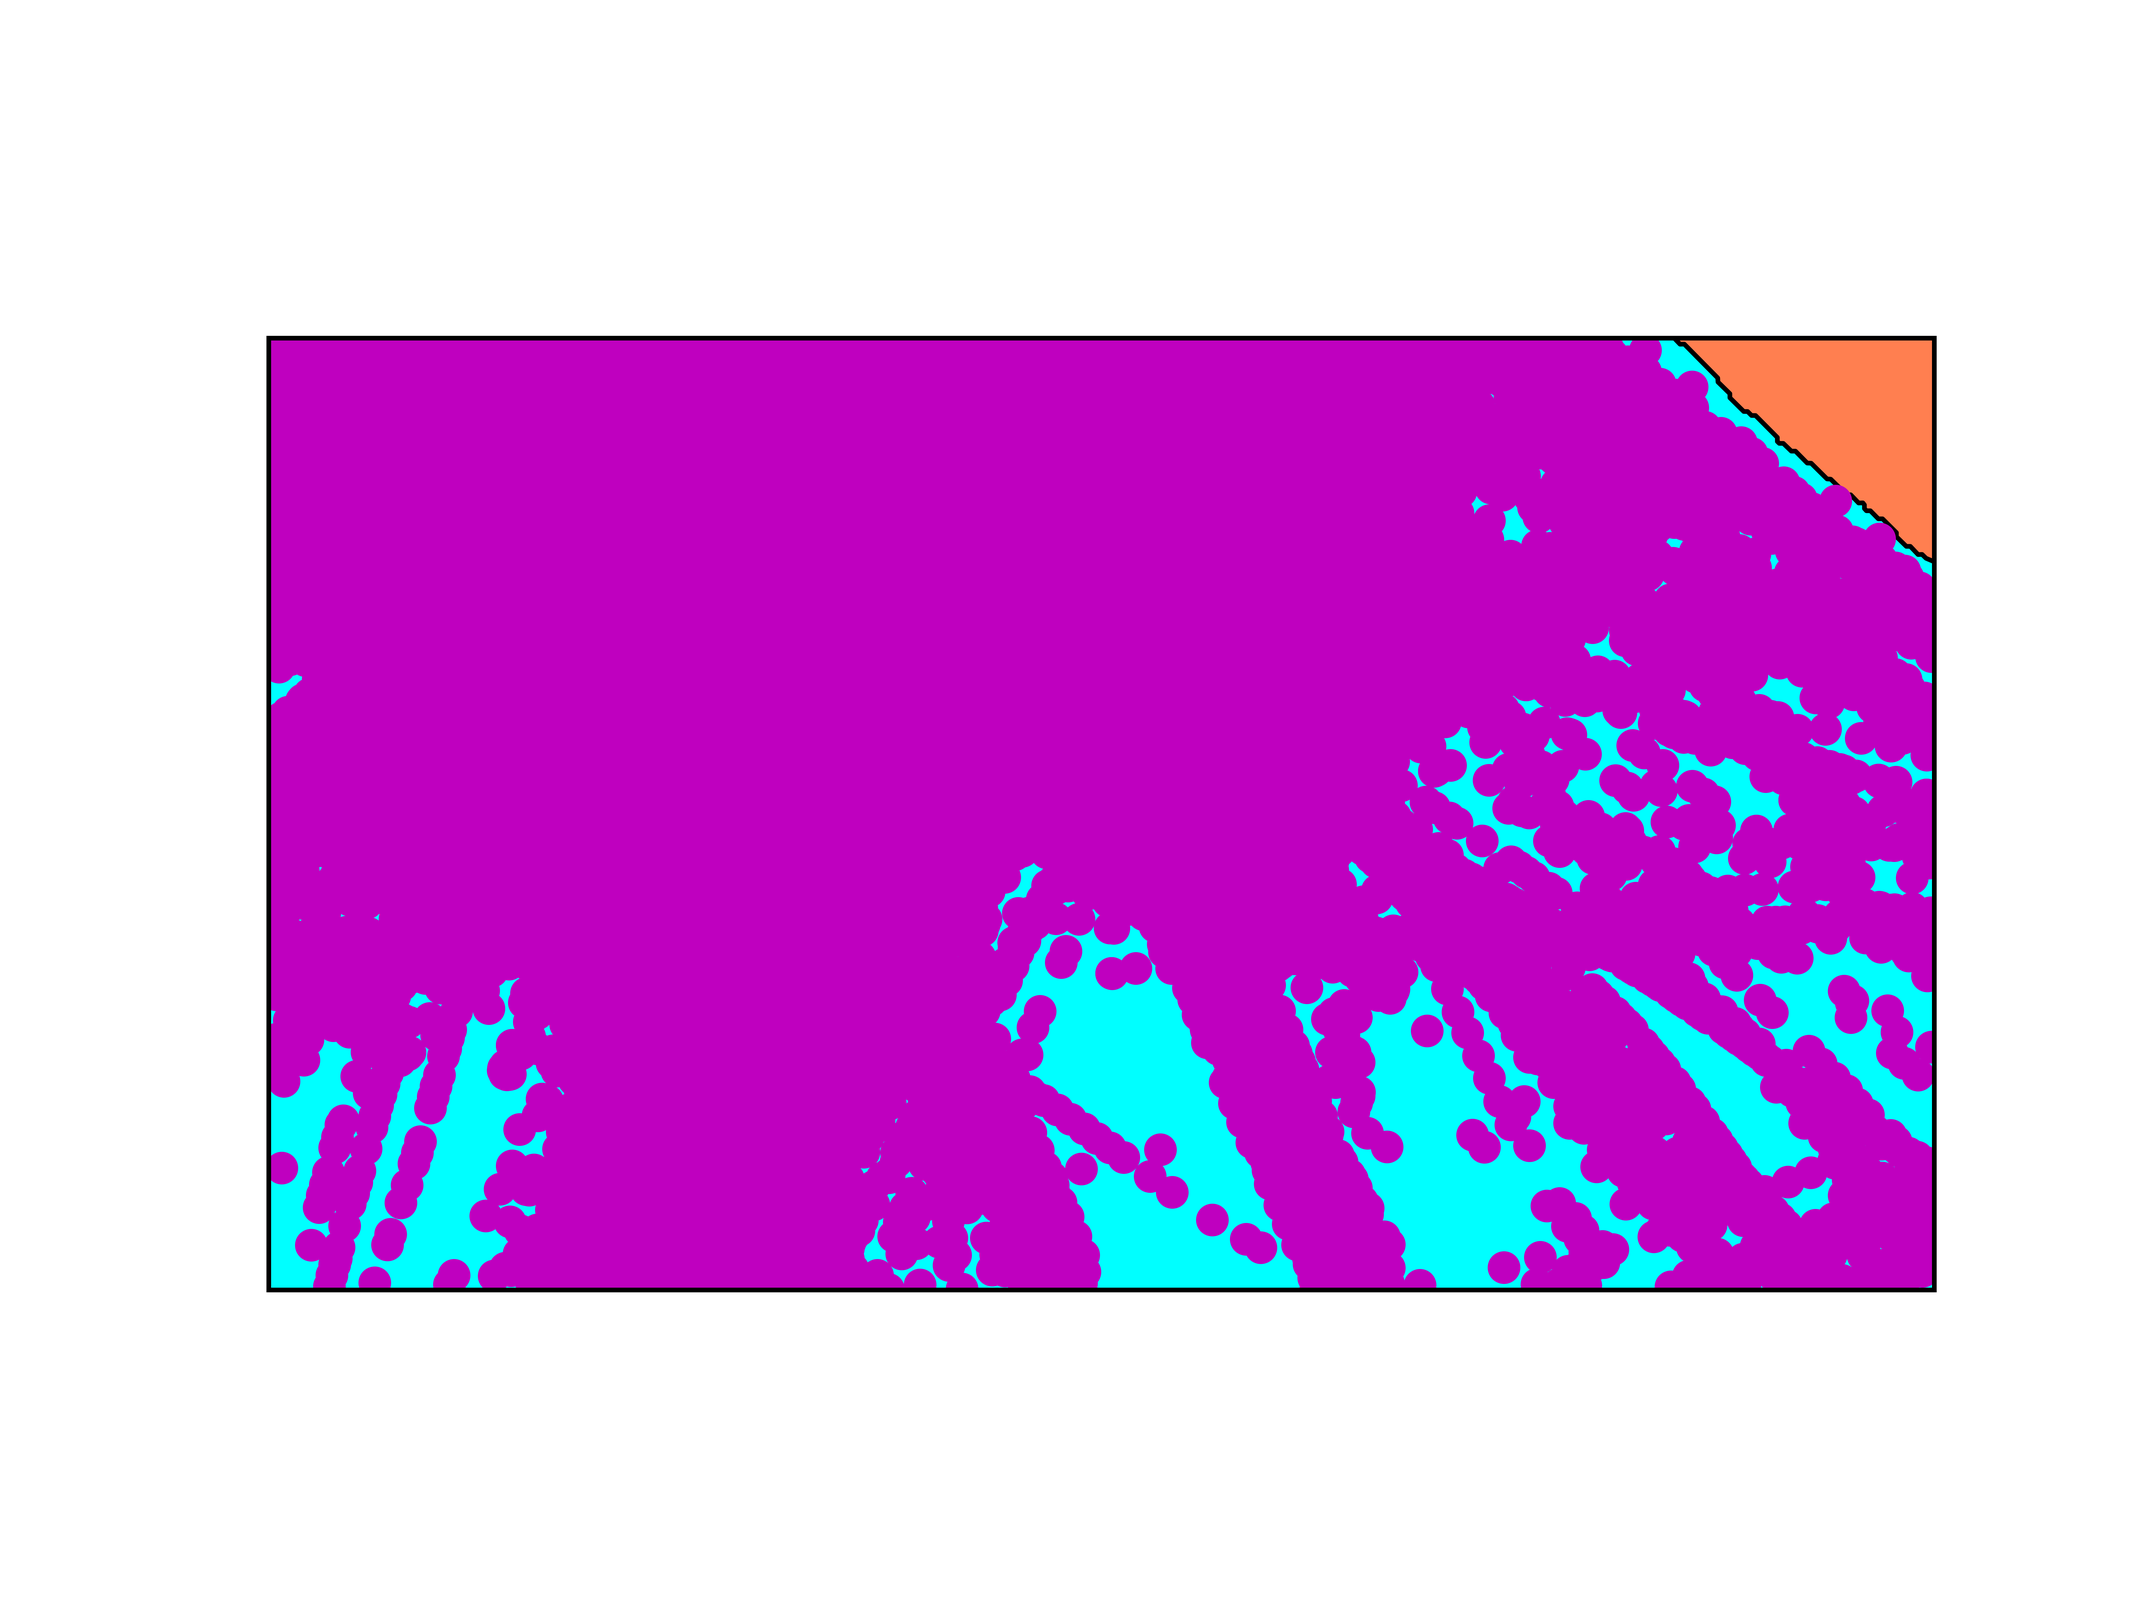
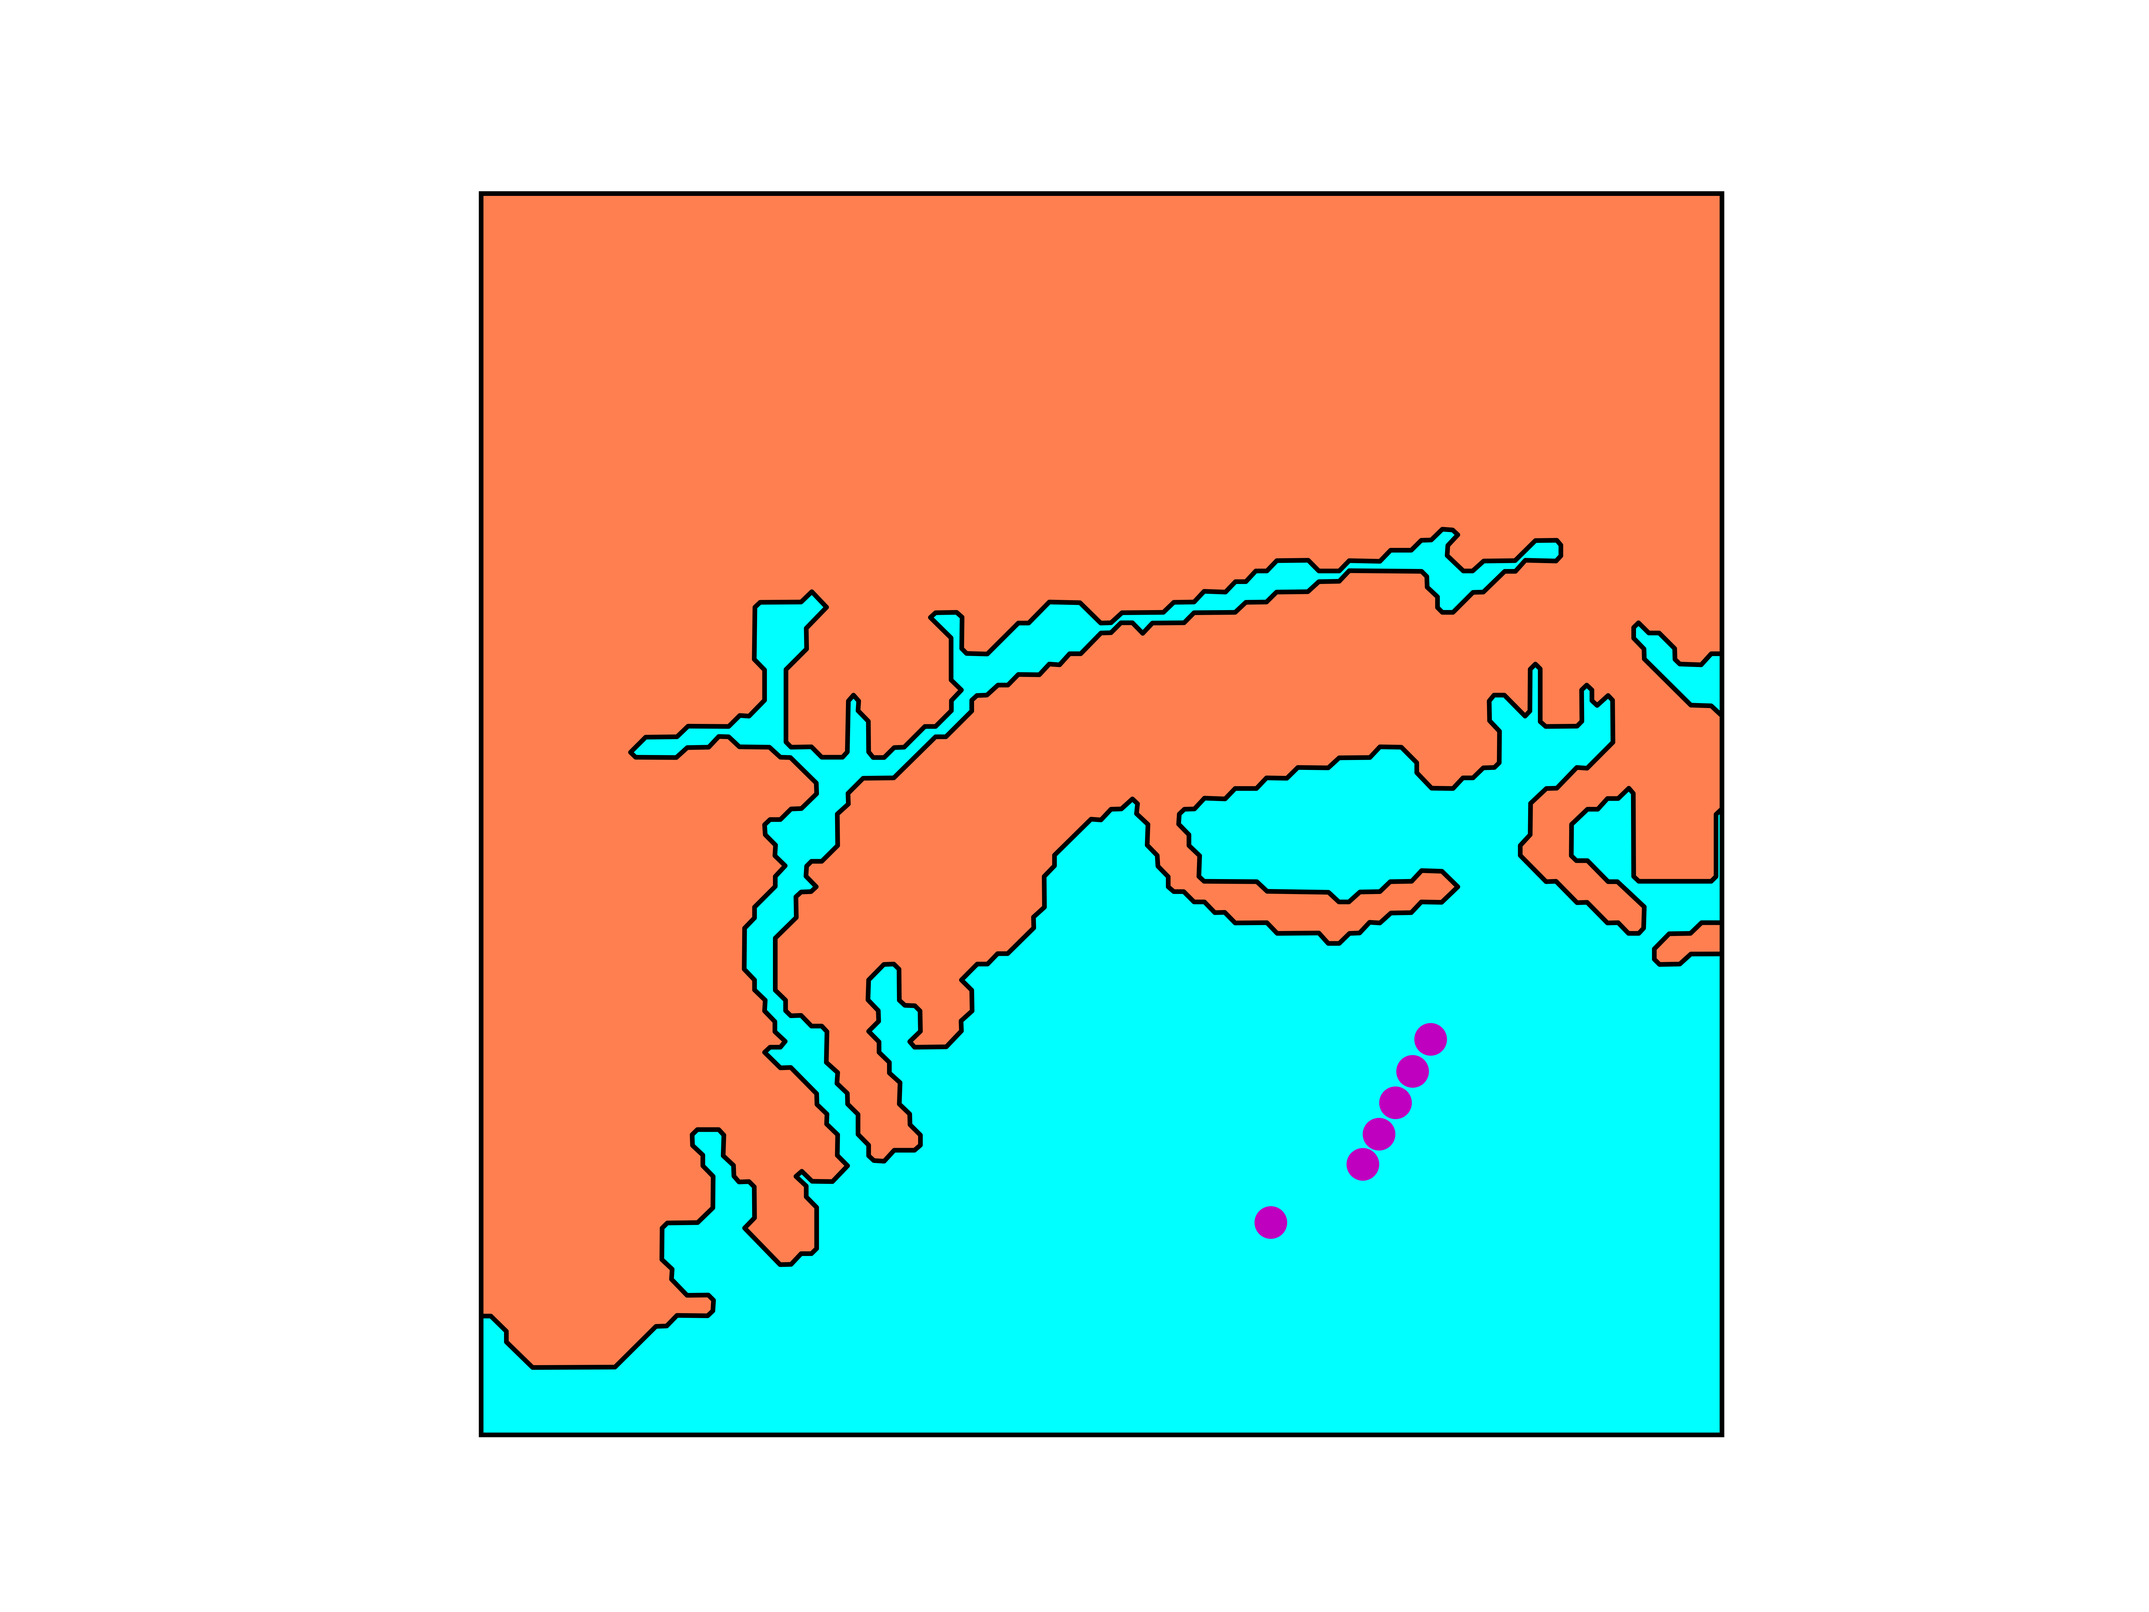
解决画图问题，选取研究区域（33.5N，33.7N）（-118.35W，-118W），目前导入AIS数据为2019-01-01~2019-01-21，每天的数据解压后excel表格大约700Mb

diff --git a/Autoencoder/code/RNN.py b/Autoencoder/code/RNN.py
@@ -1,0 +1,154 @@
+import copy
+import numpy
+import matplotlib.pyplot as plt
+import scaler
+from keras.models import Sequential
+from keras.layers import Dense
+from keras.layers import LSTM
+import  pandas as pd
+import  os
+from keras.models import Sequential, load_model
+from sklearn.preprocessing import MinMaxScaler
+import pymysql as pymysql
+
+
+pymysql.install_as_MySQLdb()
+import MySQLdb
+from math import radians, cos, sin, asin, sqrt
+import numpy
+import numpy as np
+from geopy.distance import geodesic
+import time, datetime
+import matplotlib.pyplot as plt
+from mpl_toolkits.basemap import Basemap
+from scipy.interpolate import interpolate
+import pandas as pd
+from sklearn.decomposition import PCA
+from sklearn.mixture import GaussianMixture
+from itertools import chain
+from sklearn.discriminant_analysis import LinearDiscriminantAnalysis
+from sklearn.neighbors import KNeighborsClassifier
+import math
+
+# 预测船舶主键ID
+ID = "1900"
+
+# 获取select_point
+def readData():
+    db = MySQLdb.connect("localhost", "root", "123456", "ais", charset='utf8')
+    # 使用cursor()方法获取操作游标
+    cursor = db.cursor()
+    # SQL 查询语句
+    sql = "SELECT * FROM ais_2018_01_02 WHERE  ID = '{0}' order by BaseDateTime ;".format(ID)
+    try:
+        # 执行SQL语句,获得预测真实航迹
+        cursor.execute(sql)
+        select_point = cursor.fetchall()
+    except:
+        print
+        "Error: unable to fecth data"
+    select_point = [select_point[0][1],select_point[0][2],select_point[0][3],select_point[0][4],select_point[0][5],select_point[0][6]]
+    return select_point
+
+# 插值，得到新的数据，时间间隔为30S
+def getTrajectory(select_point):
+    db = MySQLdb.connect("localhost", "root", "123456", "ais", charset='utf8')
+    # 使用cursor()方法获取操作游标
+    cursor = db.cursor()
+    # SQL 查询语句
+    sql = "SELECT MMSI,BaseDateTime,LAT,LON,SOG,COG FROM ais_2018_01_02 WHERE  MMSI = '{0}' order by BaseDateTime ;".format(select_point[0])
+    try:
+        # 执行SQL语句,获得预测真实航迹
+        cursor.execute(sql)
+        select_trajectory_row = cursor.fetchall()
+    except:
+        print
+        "Error: unable to fecth data"
+    select_trajectory = []
+
+    # 采用时间间隔为60S
+    date = [l[1] for l in select_trajectory_row]
+    # 将时间转换为时间戳
+    dateStamp = []
+    for k in range(len(date)):
+        dateStamp.append(int(date[k].timestamp()))
+    LAT = [k[2] for k in select_trajectory_row]
+    LON = [k[3] for k in select_trajectory_row]
+    SOG = [k[4] for k in select_trajectory_row]
+    COG = [k[5] for k in select_trajectory_row]
+    print("开始时间：",select_trajectory_row[0][1])
+    print("结束时间：",select_trajectory_row[len(select_trajectory_row)-1][1])
+    begin_time = int((select_trajectory_row[0][1]).timestamp())
+    end_time = int((select_trajectory_row[len(select_trajectory_row)-1][1]).timestamp())
+    X = pd.date_range(start=select_trajectory_row[0][1],end=select_trajectory_row[len(select_trajectory_row)-1][1],  freq='60S')
+    X = list(X)
+    XStamp = []
+    for h in range(len(X)):
+        XStamp.append(int(X[h].to_pydatetime().timestamp()))
+
+    # 插值
+    f_LAT = interpolate.interp1d(dateStamp,LAT,kind="linear")
+    f_LON = interpolate.interp1d(dateStamp,LON,kind="linear")
+    f_SOG = interpolate.interp1d(dateStamp,SOG,kind="linear")
+    f_COG = interpolate.interp1d(dateStamp,COG,kind="linear")
+    LATS = f_LAT(XStamp)
+    LONS = f_LON(XStamp)
+    SOGS = f_SOG(XStamp)
+    COGS = f_COG(XStamp)
+    for j in range(len(LATS)):
+        timeArray = time.localtime(XStamp[j])
+        otherStyleTime = time.strftime("%Y-%m-%d %H:%M:%S", timeArray)
+        select_trajectory.append([otherStyleTime,LATS[j],LONS[j],SOGS[j],COGS[j]])
+    return select_trajectory
+
+# RNN中的LSTM预测
+def RNN_LSTM(select_trajectory):
+    select_trajectory = select_trajectory[1:]
+    # 70%作为训练集，30%作为测试集
+    train_size = int(len(select_trajectory) * 0.7)
+    trainlist = select_trajectory[:train_size]
+    testlist = select_trajectory[train_size:]
+    look_back = 3
+    trainX, trainY = create_dataset(trainlist, look_back)
+    testX, testY = create_dataset(testlist, look_back)
+    trainX = numpy.reshape(trainX, (trainX.shape[0], trainX.shape[1], 4))
+    testX = numpy.reshape(testX, (testX.shape[0], testX.shape[1], 4))
+    #训练模型
+    model = Sequential()
+    model.add(LSTM(4, input_shape=(None, 1)))
+    model.add(Dense(1))
+    model.compile(loss='mean_squared_error', optimizer='adam')
+    model.fit(trainX, trainY, epochs=100, batch_size=1, verbose=2)
+    #做预测
+    trainPredict = model.predict(trainX)
+    testPredict = model.predict(testX)
+    # 反归一化
+    trainPredict = scaler.inverse_transform(trainPredict)
+    trainY = scaler.inverse_transform(trainY)
+    testPredict = scaler.inverse_transform(testPredict)
+    testY = scaler.inverse_transform(testY)
+    plt.plot(trainY, color='green')  # 绿色是真实数据
+    plt.plot(trainPredict[1:], color='red')  # 红色是预测数据
+    plt.title('train_set')
+    plt.show()
+    plt.savefig('训练.png')
+    plt.plot(testY, color='green')
+    plt.plot(testPredict[1:], color='red')
+    plt.title('test_set')
+    plt.savefig('测试.png')
+    plt.show()
+
+
+#这里的look_back与timestep相同，即利用前面多少步预测下一步
+def create_dataset(dataset, look_back):
+    dataX, dataY = [], []
+    for i in range(len(dataset) - look_back - 1):
+        a = dataset[i:(i + look_back)]
+        dataX.append(a)
+        dataY.append(dataset[i + look_back])
+    return numpy.array(dataX), numpy.array(dataY)
+
+
+select_point =  readData()
+select_trajectory = getTrajectory(select_point)
+RNN_LSTM(select_trajectory)

diff --git a/Autoencoder/code/__init__.py b/Autoencoder/code/__init__.py
@@ -1,5 +1,8 @@
 import copy
 
+import pymysql as pymysql
+
+pymysql.install_as_MySQLdb()
 import MySQLdb
 from math import radians, cos, sin, asin, sqrt
 
@@ -19,8 +22,8 @@ from sklearn.neighbors import KNeighborsClassifier
 import math
 
 # 预测船舶ID,预测点时间
-MMSI = "353288000"
-Basedatetime = "2018-01-08 20:45:33"
+MMSI = "367719640"
+Basedatetime = "2018-01-04 07:41:44"
 
 
 # 读取预测船舶的信息，返回真实航迹real_trajectory以及第一个点的信息first_point1
@@ -41,6 +44,10 @@ def readdata():
     except:
         print
         "Error: unable to fecth data"
+    if (first_point1[0][6] < -180):
+        first_point1[0][6] = 360 + first_point1[0][6]
+    if (first_point1[0][6] > 180):
+        first_point1[0][6] = first_point1[0][6] - 360
     return real_tajectory1, first_point1
 
 
@@ -77,8 +84,13 @@ def zuobiaozhou(first_point2=[]):
     result_trajectory = [[]]
     first_point = [first_point1[1], first_point1[2], first_point1[3], first_point1[4], first_point1[5], first_point1[6]]
     for i in range(len(result_trajectory1)):
+        result_trajectory1[i] = list(result_trajectory1[i])
+        if (result_trajectory1[i][6] < -180):
+            result_trajectory1[i][6] = 360 + result_trajectory1[i][6]
+        if (result_trajectory1[i][6] > 180):
+            result_trajectory1[i][6] = result_trajectory1[i][6] - 360
         if abs(first_point[5] - result_trajectory1[i][6]) < 45 or abs(first_point[5] - result_trajectory1[i][6]) > 315:
-            if abs(first_point[4] - result_trajectory1[i][5]) < 3: #航速差小于3节
+            if abs(first_point[4] - result_trajectory1[i][5]) < 5: #航速差小于3节
                 result_trajectory.append([result_trajectory1[i][1], result_trajectory1[i][2], result_trajectory1[i][3],
                                           result_trajectory1[i][4], result_trajectory1[i][5], result_trajectory1[i][6]])
     del (result_trajectory[0])
@@ -127,9 +139,9 @@ def getTrajectory(S0, first_point):
     S0.append(first_point)
     for i in range(len(S0)):
         now_time = S0[i][1]
-        begin_time_date = now_time - datetime.timedelta(hours=2)
+        begin_time_date = now_time - datetime.timedelta(hours=24)
         begin_time = datetime.datetime.strftime(begin_time_date, '%Y-%m-%d %H:%M:%S')
-        end_time_date = now_time + datetime.timedelta(hours=2)
+        end_time_date = now_time + datetime.timedelta(hours=24)
         end_time = datetime.datetime.strftime(end_time_date, '%Y-%m-%d %H:%M:%S')
         db = MySQLdb.connect("localhost", "root", "123456", "ais", charset='utf8')
         # 使用cursor()方法获取操作游标
@@ -154,6 +166,11 @@ def getTrajectory(S0, first_point):
         LON = [k[4] for k in S0_tajectory]
         SOG = [k[5] for k in S0_tajectory]
         COG = [k[6] for k in S0_tajectory]
+        for k in range(len(COG)):
+            if (COG[k]<-180):
+                COG[k] = 360+COG[k]
+            if(COG[k]>180):
+                COG[k] = COG[k] - 360
         X = pd.date_range(start=first_time - datetime.timedelta(minutes=30), periods=121, freq='30S')
         X = list(X)
         XStamp = []
@@ -264,7 +281,7 @@ def LDA_4(back_trajectory_with_label, back_select):
     return LDA_back, LDA_select
 
 
-# 使用KNN分类算法，将LDA_back分类到LDP_select的类别当中，其中参数K=4，返回类别kind
+# 使用KNN分类算法，将LDA_back分类到LDP_select的类别当中，其中参数K=8，返回类别kind
 def KNN_4(LDA_back1, LDA_select1):
     LDA_back = copy.deepcopy(LDA_back1)
     LDA_select = copy.deepcopy(LDA_select1)
@@ -274,7 +291,7 @@ def KNN_4(LDA_back1, LDA_select1):
         label.append(single[4])
         del single[4]
     del LDA_select[0][0]
-    k = 4
+    k = 8
     clf = KNeighborsClassifier(n_neighbors=k)
     clf.fit(LDA_back, label)
     kind = clf.predict(LDA_select)
@@ -302,6 +319,7 @@ def getWeight(LDA_back1, LDA_select1, kind):
     for i in weigth:
         sum_weight = sum_weight + i
     weigth = weigth / sum_weight
+    print("与select船舶相同类别轨迹的数目是：",len(weigth))
     return list(zip(MMSI, weigth))
 
 

diff --git a/Autoencoder/RNN/LSTM_example.py b/Autoencoder/RNN/LSTM_example.py
@@ -1,0 +1,69 @@
+import numpy
+import matplotlib.pyplot as plt
+from keras.models import Sequential
+from keras.layers import Dense
+from keras.layers import LSTM
+import  pandas as pd
+import  os
+from keras.models import Sequential, load_model
+from sklearn.preprocessing import MinMaxScaler
+
+dataframe = pd.read_csv('./ads.csv', usecols=[1], engine='python', skipfooter=0)
+dataset = dataframe.values
+# 将整型变为float
+dataset = dataset.astype('float32')
+#归一化 加快lose的下降速度
+scaler = MinMaxScaler(feature_range=(0, 1))
+dataset = scaler.fit_transform(dataset)
+
+# 65%作为训练集，35%作为测试集
+train_size = int(len(dataset) * 0.65)
+trainlist = dataset[:train_size]
+testlist = dataset[train_size:]
+
+def create_dataset(dataset, look_back):
+#这里的look_back与timestep相同，即前面的多少步
+    dataX, dataY = [], []
+    for i in range(len(dataset)-look_back-1):
+        a = dataset[i:(i+look_back)]
+        dataX.append(a)
+        dataY.append(dataset[i + look_back])
+    return numpy.array(dataX),numpy.array(dataY)
+#训练数据太少 look_back并不能过大
+look_back = 1
+trainX,trainY  = create_dataset(trainlist,look_back)
+testX,testY = create_dataset(testlist,look_back)
+
+trainX = numpy.reshape(trainX, (trainX.shape[0], trainX.shape[1], 1))
+testX = numpy.reshape(testX, (testX.shape[0], testX.shape[1] ,1 ))
+
+# create and fit the LSTM network
+model = Sequential()
+model.add(LSTM(4, input_shape=(None,1)))
+model.add(Dense(1))
+model.compile(loss='mean_squared_error', optimizer='adam')
+model.fit(trainX, trainY, epochs=100, batch_size=1, verbose=2)
+model.save(os.path.join("Test" + ".h5"))
+# make predictions
+#model = load_model(os.path.join("DATA","Test" + ".h5"))
+trainPredict = model.predict(trainX)
+testPredict = model.predict(testX)
+
+#反归一化
+trainPredict = scaler.inverse_transform(trainPredict)
+trainY = scaler.inverse_transform(trainY)
+testPredict = scaler.inverse_transform(testPredict)
+testY = scaler.inverse_transform(testY)
+
+plt.plot(trainY,color = 'green')#绿色是真实数据
+plt.plot(trainPredict[1:],color = 'red')#红色是预测数据
+plt.title('train_set')
+plt.show()
+plt.savefig('训练.png')
+plt.plot(testY,color = 'green')
+plt.plot(testPredict[1:],color = 'red')
+plt.title('test_set')
+plt.savefig('测试.png')
+plt.show()
+
+

diff --git a/Draw.py b/Draw.py
@@ -1,5 +1,7 @@
 import copy
+import pymysql as pymysql
 
+pymysql.install_as_MySQLdb()
 import MySQLdb
 from math import radians, cos, sin, asin, sqrt
 
@@ -21,7 +23,7 @@ import math
 
 
 def draw(trajectory):
-    map = Basemap(llcrnrlon=-118.35, llcrnrlat=33.5, urcrnrlon=-118, urcrnrlat=33.7,resolution='f')
+    map = Basemap(llcrnrlon=-118.3, llcrnrlat=33.7, urcrnrlon=-118.2, urcrnrlat=33.8,resolution='f')
     map.drawmapboundary(fill_color='aqua')
     map.fillcontinents(color='coral', lake_color='aqua')
     map.drawcoastlines()
@@ -44,7 +46,7 @@ def get_Trajectory():
     # 使用cursor()方法获取操作游标
     cursor = db.cursor()
     # SQL 查询语句
-    sql_S0 = "SELECT * FROM ais_2018_01_02 where lat between 33.5 and 33.7 and lon between -118.35 and -118;"
+    sql_S0 = "SELECT * FROM ais_2018_01_02 WHERE MMSI = '366760650' AND BaseDateTime > '2018-01-02 12:39:49' AND BaseDateTime<'2018-01-02 12:52:29';"
     try:
         # 执行SQL语句,获得周围目标船舶的航迹
         cursor.execute(sql_S0)
